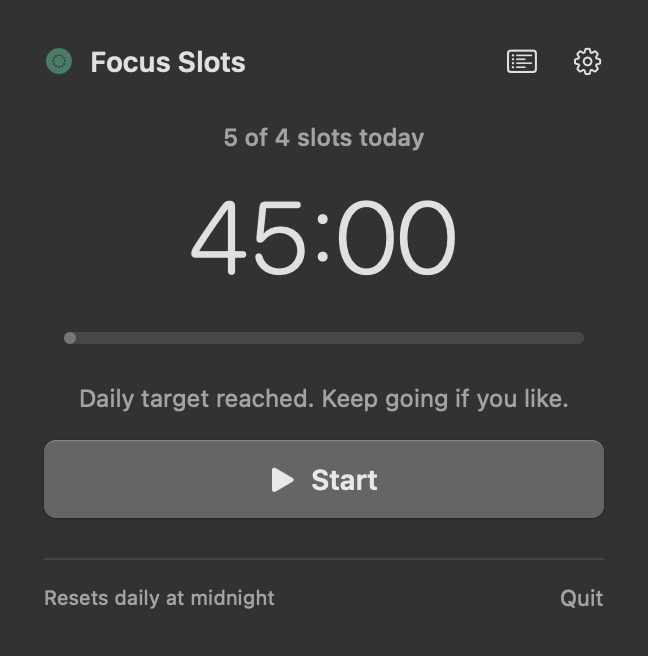
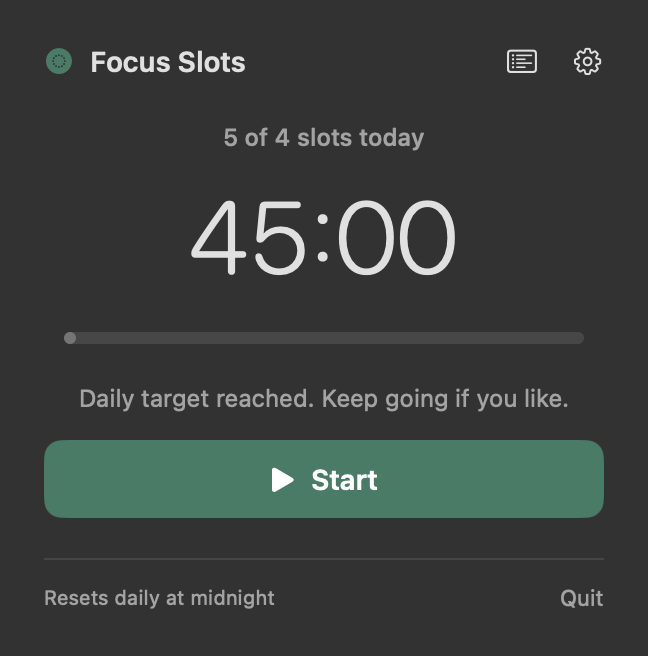
Draw explicit high-contrast Start and Stop buttons

Changed region(s): [[0.0617, 0.6707, 0.9568, 0.7927]]

diff --git a/Sources/FocusSlots.swift b/Sources/FocusSlots.swift
@@ -129,6 +129,21 @@ final class SlotStore: ObservableObject {
     }
 }
 
+// Draw the timer action explicitly rather than relying on the prominent
+// system button's tint/label treatment, which differs between macOS versions.
+private struct TimerActionButtonStyle: ButtonStyle {
+    let fill: Color
+
+    func makeBody(configuration: Configuration) -> some View {
+        configuration.label
+            .foregroundStyle(Color.white)
+            .frame(maxWidth: .infinity)
+            .padding(.vertical, 11)
+            .background(fill.opacity(configuration.isPressed ? 0.85 : 1), in: RoundedRectangle(cornerRadius: 9))
+            .contentShape(RoundedRectangle(cornerRadius: 9))
+    }
+}
+
 struct SlotPopover: View {
     @ObservedObject var store: SlotStore
     @State private var settings = false
@@ -271,13 +286,16 @@ struct SlotPopover: View {
                             onStart()
                         }
                     } label: {
-                        Label(store.isRunning ? "Stop" : "Start", systemImage: store.isRunning ? "stop.fill" : "play.fill")
-                            .font(.system(size: 14, weight: .semibold))
-                            .frame(maxWidth: .infinity).padding(.vertical, 9)
+                        HStack(spacing: 8) {
+                            Image(systemName: store.isRunning ? "stop.fill" : "play.fill")
+                                .symbolRenderingMode(.monochrome)
+                            Text(store.isRunning ? "Stop" : "Start")
+                        }
+                        .font(.system(size: 14, weight: .semibold))
                     }
-                    .buttonStyle(.borderedProminent)
-                    .tint(store.isRunning ? Color.secondary : accent)
-                    .controlSize(.large)
+                    .buttonStyle(TimerActionButtonStyle(fill: store.isRunning
+                        ? Color(red: 0.30, green: 0.32, blue: 0.36) : accent))
+                    .accessibilityLabel(store.isRunning ? "Stop" : "Start")
                     .help(store.isRunning ? "Discard this unfinished slot" : "Start a new focus slot")
                 }
             }

diff --git a/Tests/AppUITests.swift b/Tests/AppUITests.swift
@@ -81,7 +81,17 @@ enum AppUITests {
 
         let bell = NSSound(contentsOfFile: output + "/completion.wav", byReference: false)
         assert(bell != nil && abs(bell!.duration - 0.8) < 0.01, "Bundled completion sound is invalid")
-        for (name, appearance, settings, history) in [("light", NSAppearance.Name.aqua, false, false), ("dark", .darkAqua, false, false), ("settings", .aqua, true, false), ("history", .aqua, false, true), ("history-dark", .darkAqua, false, true)] {
+        for (name, appearance, settings, history, running) in [
+            ("light", NSAppearance.Name.aqua, false, false, false),
+            ("dark", .darkAqua, false, false, false),
+            ("running-light", .aqua, false, false, true),
+            ("running-dark", .darkAqua, false, false, true),
+            ("settings", .aqua, true, false, false),
+            ("history", .aqua, false, true, false),
+            ("history-dark", .darkAqua, false, true, false)
+        ] {
+            if running { completed.start() }
+            else if completed.isRunning { completed.stop() }
             let window = NSWindow(contentRect: NSRect(x: 0, y: 0, width: 324, height: 350),
                                   styleMask: [.borderless], backing: .buffered, defer: false)
             window.appearance = NSAppearance(named: appearance)
@@ -103,6 +113,6 @@ enum AppUITests {
             try data.write(to: URL(fileURLWithPath: output).appendingPathComponent("popover-\(name).png"))
             window.orderOut(nil)
         }
-        print("PASS: completion invokes real audio once, playback finishes, preview plays without counting, volume persists, stop is silent, unlimited extra slots, next timer reset, persisted history, light/dark/settings/history UI")
+        print("PASS: completion invokes real audio once, playback finishes, preview plays without counting, volume persists, stop is silent, unlimited extra slots, next timer reset, persisted history, Start/Stop light/dark snapshots, settings/history UI")
     }
 }

diff --git a/README.md b/README.md
@@ -8,11 +8,15 @@ A simple native macOS menu bar app for manually started focus sessions. Set a da
 | --- | --- |
 | <img src="screenshots/timer-light.png" alt="Focus Slots timer in light appearance" width="300"> | <img src="screenshots/timer-dark.png" alt="Focus Slots timer in dark appearance" width="300"> |
 
+| Running timer — light | Running timer — dark |
+| --- | --- |
+| <img src="screenshots/running-light.png" alt="Running timer with visible Stop text and icon in light mode" width="300"> | <img src="screenshots/running-dark.png" alt="Running timer with visible Stop text and icon in dark mode" width="300"> |
+
 Settings includes the daily target, slot length, sound preview and volume, and the running version.
 
 | Settings | History |
 | --- | --- |
-| <img src="screenshots/settings.png" alt="Focus Slots settings with sound controls and version 1.0.9" width="300"> | <img src="screenshots/history.png" alt="Daily history with dates and completed slots over daily targets" width="300"> |
+| <img src="screenshots/settings.png" alt="Focus Slots settings with sound controls and version 1.0.10" width="300"> | <img src="screenshots/history.png" alt="Daily history with dates and completed slots over daily targets" width="300"> |
 
 ## How it works
 
@@ -58,10 +62,10 @@ bash build.sh
 
 The build tests the timer logic, generates the icon and sound, compiles both Intel and Apple Silicon binaries, combines them into a universal app, verifies its ad-hoc signature, and creates a compressed drag-to-Applications disk image. It then mounts the image and checks the copied app, its signature, version, and both CPU architectures.
 
-For version 1.0.9, the outputs are:
+For version 1.0.10, the outputs are:
 
 - App: `build/Focus Slots.app`
-- Disk image: `dist/FocusSlots-1.0.9.dmg`
+- Disk image: `dist/FocusSlots-1.0.10.dmg`
 
 To try the app without installing it:
 
@@ -77,7 +81,7 @@ Quit any already-running copy before opening another build. Build files and disk
 2. Open the disk image:
 
    ```bash
-   open dist/FocusSlots-1.0.9.dmg
+   open dist/FocusSlots-1.0.10.dmg
    ```
 
 3. Drag **Focus Slots.app** onto the **Applications** shortcut in the mounted image. When updating an existing copy, choose **Replace**.
@@ -107,13 +111,15 @@ After building, run the native integration checks in your Mac's logged-in deskto
 bash test-ui.sh
 ```
 
-These checks exercise saved settings and progress, start/stop, live completion, real audio playback, sound preview, and volume persistence. The suite uses isolated preferences, briefly plays the chime twice, and renders light, dark, Settings, and History screenshots into `build/`.
+These checks exercise saved settings and progress, start/stop, live completion, real audio playback, sound preview, and volume persistence. The suite uses isolated preferences, briefly plays the chime twice, and renders Start and Stop in light and dark mode, plus Settings and History screenshots into `build/`.
 
 The README screenshots live separately in `screenshots/`. Refresh them after reviewing the rendered images:
 
 ```bash
 cp build/popover-light.png screenshots/timer-light.png
 cp build/popover-dark.png screenshots/timer-dark.png
+cp build/popover-running-light.png screenshots/running-light.png
+cp build/popover-running-dark.png screenshots/running-dark.png
 cp build/popover-settings.png screenshots/settings.png
 cp build/popover-history.png screenshots/history.png
 ```
